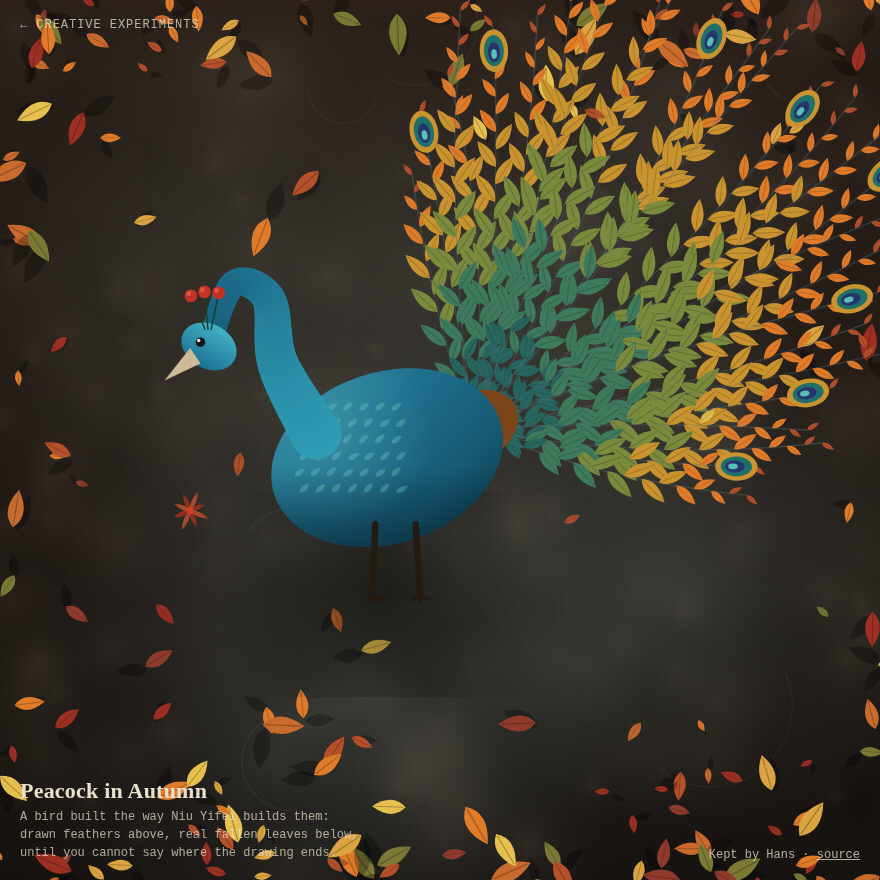
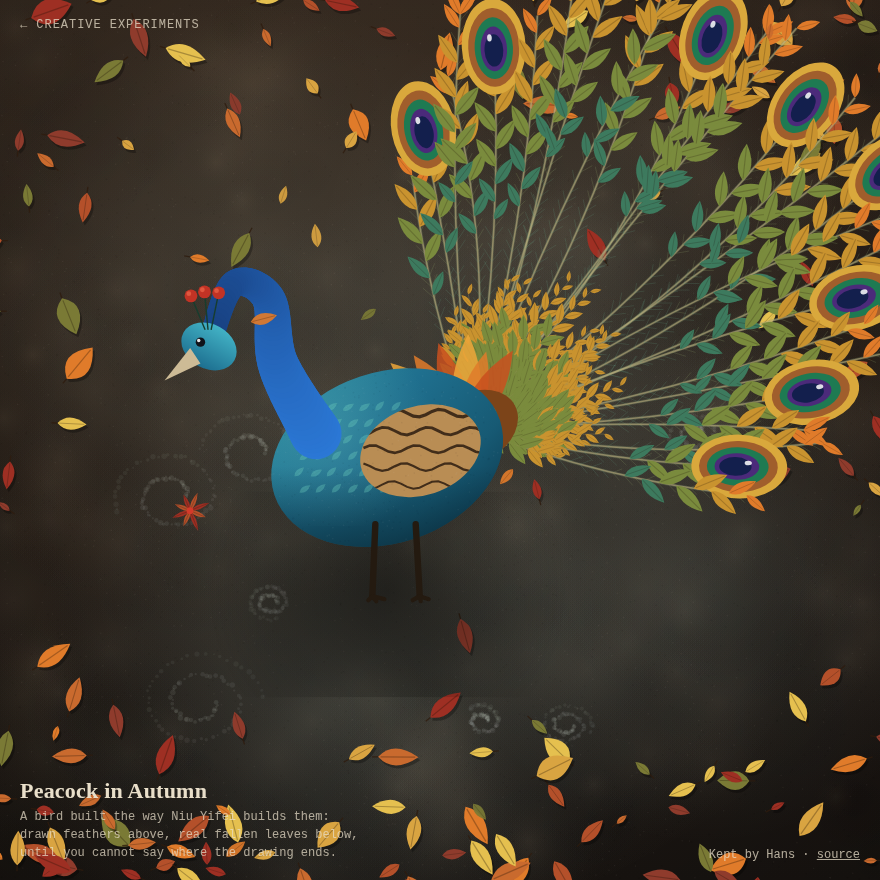
Peacock in Autumn v2: real train anatomy - bare barbed shafts, blade and layered ocelli at the tips, fishtail back rows, gold-green covert skirt

diff --git a/peacock/index.html b/peacock/index.html
@@ -53,7 +53,7 @@
   var canvas = document.getElementById('c');
   var ctx = canvas.getContext('2d');
   var W = 0, H = 0, S = 0;
-  var groundCv = null, bodyCv = null, frontCv = null;
+  var groundCv = null, trainCv = null, bodyCv = null, frontCv = null;
   var strands = [];
   var drifters = [];
   var gusts = [];
@@ -160,14 +160,20 @@
       g.fillStyle = sm;
       g.fillRect(wx - wr, wy - wr, wr * 2, wr * 2);
     }
-    // smoke curls: a few open arcs, chalk-like
-    g.strokeStyle = 'rgba(220,232,226,0.045)';
-    for (i = 0; i < 6; i++) {
-      g.lineWidth = 1 + rg() * 1.6;
-      g.beginPath();
-      var ax = rg() * W, ay = rg() * H, ar = 24 + rg() * 90, a0 = rg() * 6.28;
-      g.arc(ax, ay, ar, a0, a0 + 1.2 + rg() * 1.6);
-      g.stroke();
+    // smoke curls: chalk spirals drawn as jittered dashes, the way a
+    // pastel stick actually lays down a curl
+    for (i = 0; i < 7; i++) {
+      var sx = (0.12 + rg() * 0.76) * W, sy = (0.18 + rg() * 0.7) * H;
+      var sr = 16 + rg() * 54, turns = 1.2 + rg() * 0.9, dir = rg() > 0.5 ? 1 : -1;
+      var steps = 90;
+      for (var q = 0; q < steps; q++) {
+        var qt = q / steps, qa = dir * qt * turns * 6.283, qr = sr * (0.25 + 0.75 * qt);
+        var qx = sx + Math.cos(qa) * qr + (rg() - 0.5) * 3, qy = sy + Math.sin(qa) * qr * 0.82 + (rg() - 0.5) * 3;
+        g.fillStyle = 'rgba(220,232,226,' + (0.05 + 0.05 * (1 - qt)) + ')';
+        g.beginPath();
+        g.arc(qx, qy, 1 + rg() * 1.8, 0, 6.283);
+        g.fill();
+      }
     }
 
     // chalk dust
@@ -175,6 +181,18 @@
       g.fillStyle = rg() > 0.6 ? 'rgba(233,223,202,0.06)' : 'rgba(0,0,0,0.10)';
       g.fillRect(rg() * W, rg() * H, 1.3, 1.3);
     }
+
+    // warm key light from upper left, and a vignette to close the corners
+    var key = g.createRadialGradient(W * 0.30, H * 0.16, 0, W * 0.30, H * 0.16, S * 0.95);
+    key.addColorStop(0, 'rgba(255,214,150,0.07)');
+    key.addColorStop(1, 'rgba(255,214,150,0)');
+    g.fillStyle = key;
+    g.fillRect(0, 0, W, H);
+    var vg = g.createRadialGradient(W / 2, H / 2, S * 0.42, W / 2, H / 2, S * 1.05);
+    vg.addColorStop(0, 'rgba(0,0,0,0)');
+    vg.addColorStop(1, 'rgba(0,0,0,0.30)');
+    g.fillStyle = vg;
+    g.fillRect(0, 0, W, H);
 
     // the little star flower the bird is looking at
     var L0 = layout();
@@ -195,14 +213,23 @@
       else if (edge < 0.86) { lx = W - Math.pow(rg(), 1.8) * W * 0.10; ly = rg() * H; }
       else { lx = rg() * W; ly = rg() * H; }
       var ls = 13 + rg() * 30;
+      var lw = ls * (rg() > 0.72 ? 0.58 : 0.42);   // some leaves round, most pointed
+      var lrot = rg() * 6.28;
       g.save();
       g.translate(lx + 2, ly + 3);
-      g.rotate(rg() * 6.28);
+      g.rotate(lrot);
       g.globalAlpha = 0.28;
-      leaf(g, ls, ls * 0.42, '#000000', 0);
+      leaf(g, ls, lw, '#000000', 0);
       g.restore();
       g.globalAlpha = 1;
-      drawLeafAt(g, lx, ly, ls, ls * 0.42, rg() * 6.28, AUTUMN[(rg() * AUTUMN.length) | 0], 0.30);
+      // a short stem trailing from the base
+      g.strokeStyle = 'rgba(46,28,14,0.8)';
+      g.lineWidth = 1.3;
+      g.beginPath();
+      g.moveTo(lx, ly);
+      g.lineTo(lx - Math.sin(lrot) * 6, ly + Math.cos(lrot) * 6);
+      g.stroke();
+      drawLeafAt(g, lx, ly, ls, lw, lrot, AUTUMN[(rg() * AUTUMN.length) | 0], 0.30);
     }
   }
 
@@ -223,6 +250,21 @@
     sh.addColorStop(1, 'rgba(0,0,0,0)');
     g.fillStyle = sh;
     g.fillRect(bx - rx * 1.5, by + ry * 0.4, rx * 3, ry * 2.4);
+
+    // flame tongues at the tail base, as in the reference: the fan
+    // seems to catch fire where it leaves the body
+    var flameCols = ['#eda63a', '#e07b2a', '#c9501f'];
+    for (var fi = 0; fi < 6; fi++) {
+      var fa = -0.9 + fi * 0.30 + (rg() - 0.5) * 0.12;
+      var fl = rx * (0.55 + rg() * 0.4);
+      g.save();
+      g.translate(bx + rx * 0.66, by - ry * 0.34);
+      g.rotate(fa);
+      g.globalAlpha = 0.85;
+      leaf(g, fl, fl * 0.30, flameCols[fi % 3], 0);
+      g.restore();
+    }
+    g.globalAlpha = 1;
 
     // tail base mound (body colour flowing into the fan)
     g.fillStyle = '#7c4419';
@@ -280,6 +322,39 @@
     }
     g.globalAlpha = 1;
 
+    // the folded wing: buff coverts barred with dark umber waves,
+    // the marking that makes a blue peafowl read as itself
+    g.save();
+    g.beginPath();
+    g.ellipse(bx + rx * 0.28, by - ry * 0.08, rx * 0.52, ry * 0.52, -0.32, 0, 6.283);
+    g.clip();
+    g.fillStyle = '#b98d54';
+    g.fillRect(bx - rx * 0.3, by - ry * 0.7, rx * 1.2, ry * 1.3);
+    g.strokeStyle = 'rgba(43,28,16,0.85)';
+    for (var wi = 0; wi < 6; wi++) {
+      g.lineWidth = 3.2 - wi * 0.3;
+      g.beginPath();
+      var wy = by - ry * 0.52 + wi * ry * 0.21;
+      for (var wx2 = 0; wx2 <= 20; wx2++) {
+        var wpx = bx - rx * 0.2 + (wx2 / 20) * rx * 1.05;
+        var wpy = wy + Math.sin(wx2 * 0.9 + wi * 1.7) * ry * 0.045;
+        if (wx2 === 0) g.moveTo(wpx, wpy); else g.lineTo(wpx, wpy);
+      }
+      g.stroke();
+    }
+    g.restore();
+    // chalk powder over the body, so the bird is pastel, not plastic:
+    // speckles clipped to the body ellipse
+    g.save();
+    g.beginPath();
+    g.ellipse(bx, by, rx, ry, -0.32, 0, 6.283);
+    g.clip();
+    for (var sp = 0; sp < 420; sp++) {
+      g.fillStyle = rg() > 0.5 ? 'rgba(230,242,238,0.05)' : 'rgba(6,20,28,0.06)';
+      g.fillRect(bx + (rg() - 0.5) * rx * 2, by + (rg() - 0.5) * ry * 2, 1.4, 1.4);
+    }
+    g.restore();
+
     // neck: rises from the breast, arches, and bows down to the head,
     // which hangs low over the little star flower
     var neck = [
@@ -308,7 +383,7 @@
       var gt = pi / (path.length - 1);
       var wseg = Math.min(widths.length - 1.001, gt * (widths.length - 1));
       var wdt = lerp(widths[Math.floor(wseg)], widths[Math.floor(wseg) + 1], wseg % 1);
-      g.strokeStyle = lerpColor('#2f9db4', '#175d7c', gt);
+      g.strokeStyle = lerpColor('#2b78d6', '#173f7e', gt);
       g.lineWidth = wdt;
       g.lineCap = 'round';
       g.beginPath();
@@ -430,52 +505,142 @@
     };
   }
 
+  // ---------- the train, baked once: bare shafts, fine barbs, and the
+  // fluffy gold-green coverts at the base. A real train feather is a
+  // long near-naked rachis; the blade and the eye live at the tip.
+  function buildTrain() {
+    trainCv = document.createElement('canvas');
+    trainCv.width = Math.floor(W * DPR); trainCv.height = Math.floor(H * DPR);
+    var g = trainCv.getContext('2d');
+    g.setTransform(DPR, 0, 0, DPR, 0, 0);
+    var rg = mulberry(seed + 41);
+    var bs = Math.max(0.7, S / 620);
+
+    for (var s = 0; s < strands.length; s++) {
+      var st = strands[s];
+      // the rachis: a pale straw-teal line, slightly tapered feel via
+      // two passes (soft under-stroke, brighter core)
+      g.strokeStyle = 'rgba(120,138,104,0.30)';
+      g.lineWidth = 2.1 * bs;
+      g.beginPath();
+      g.moveTo(st.ox, st.oy);
+      g.quadraticCurveTo(st.cx, st.cy, st.ex, st.ey);
+      g.stroke();
+      g.strokeStyle = 'rgba(198,182,132,0.55)';
+      g.lineWidth = 1.1 * bs;
+      g.beginPath();
+      g.moveTo(st.ox, st.oy);
+      g.quadraticCurveTo(st.cx, st.cy, st.ex, st.ey);
+      g.stroke();
+      // fine barbs angled toward the tip, sparse, alternating sides
+      var steps = Math.max(6, Math.floor(st.L / 11));
+      for (var j = 1; j < steps; j++) {
+        var u = j / steps;
+        var p = qPoint(st, u);
+        var tang = Math.atan2(p.ty, p.tx);
+        var blen = (7 + rg() * 5.5) * bs * (1 - u * 0.25);
+        for (var sd = -1; sd <= 1; sd += 2) {
+          if (rg() < 0.18) continue;   // barbs are sparse, with gaps
+          var ba = tang + sd * (Math.PI / 2 - 0.95);
+          g.strokeStyle = u < 0.5 ? 'rgba(96,150,128,0.26)' : 'rgba(140,160,105,0.28)';
+          g.lineWidth = 0.8;
+          g.beginPath();
+          g.moveTo(p.x, p.y);
+          g.lineTo(p.x + Math.cos(ba) * blen, p.y + Math.sin(ba) * blen);
+          g.stroke();
+        }
+      }
+    }
+
+    // short covert feathers fanning from the same base: the dense,
+    // fluffy gold-green skirt the long feathers rise out of
+    var L0 = layout();
+    var cox = L0.bx + L0.rx * 0.72, coy = L0.by - L0.ry * 0.34;
+    var reach = 0.60 * Math.max(W, H);
+    var NC = 42;
+    for (var c = 0; c < NC; c++) {
+      var ct = c / (NC - 1);
+      var cang = lerp(-1.86, 0.30, ct) + (rg() - 0.5) * 0.09;
+      var cL = reach * (0.16 + rg() * 0.14) * (0.75 + 0.45 * Math.sin(Math.PI * ct));
+      var cdx = Math.cos(cang), cdy = Math.sin(cang);
+      var cbow = (rg() - 0.4) * 0.2;
+      var cst = {
+        ox: cox, oy: coy,
+        cx: cox + cdx * cL * 0.5 - cdy * cL * cbow,
+        cy: coy + cdy * cL * 0.5 + cdx * cL * cbow,
+        ex: cox + cdx * cL, ey: coy + cdy * cL, L: cL
+      };
+      g.strokeStyle = 'rgba(150,140,95,0.4)';
+      g.lineWidth = 0.9;
+      g.beginPath();
+      g.moveTo(cst.ox, cst.oy);
+      g.quadraticCurveTo(cst.cx, cst.cy, cst.ex, cst.ey);
+      g.stroke();
+      var cn = Math.max(5, Math.floor(cL / 9));
+      for (var cj = 1; cj <= cn; cj++) {
+        var cu = cj / cn;
+        var cp = qPoint(cst, cu);
+        var ctang = Math.atan2(cp.ty, cp.tx);
+        var cside = (cj % 2 === 0) ? 1 : -1;
+        var clen = (8 + 11 * Math.sin(Math.PI * Math.min(1, cu * 1.05))) * bs;
+        drawLeafAt(g, cp.x, cp.y, clen, clen * 0.38,
+          ctang + Math.PI / 2 + cside * 0.58,
+          rampAt(0.28 + cu * 0.34 + (rg() - 0.5) * 0.05), 0.2);
+      }
+    }
+  }
+
   function drawTail(now) {
     var t = now / 1000;
     for (var s = 0; s < strands.length; s++) {
       var st = strands[s];
-      // filaments
-      ctx.strokeStyle = 'rgba(84,110,120,0.4)';
-      ctx.lineWidth = 1.1;
-      ctx.beginPath();
-      ctx.moveTo(st.ox, st.oy);
-      ctx.quadraticCurveTo(st.cx, st.cy, st.ex, st.ey);
-      ctx.stroke();
-      ctx.strokeStyle = 'rgba(84,110,120,0.16)';
-      ctx.beginPath();
-      ctx.moveTo(st.ox, st.oy);
-      ctx.quadraticCurveTo(st.cx + 5, st.cy + 3, st.ex, st.ey);
-      ctx.stroke();
-      // leaflets
+      // the blade: leaflets only in the outer half of the feather,
+      // running green at its base to gold at the tip
       var n = Math.max(9, Math.floor(st.L / 17));
-      for (var j = 2; j <= n; j++) {
+      var j0 = Math.max(2, Math.ceil(n * 0.52));
+      for (var j = j0; j <= n; j++) {
         var u = j / n;
+        var v = (u - 0.52) / 0.48;
         var p = qPoint(st, u);
         var tang = Math.atan2(p.ty, p.tx);
         var sway = Math.sin(t * 0.6 + st.phase + u * 2.2) * 0.045;
         var side = (j % 2 === 0) ? 1 : -1;
-        var llen = (10 + 15 * Math.sin(Math.PI * Math.min(1, u * 1.06))) * (S / 620);
+        var llen = (10 + 16 * Math.sin(Math.PI * (0.15 + 0.7 * v))) * (S / 620);
         drawLeafAt(ctx, p.x, p.y, llen, llen * 0.36,
           tang + Math.PI / 2 + side * (0.62 + st.off * 0.2) + sway,
-          rampAt(u * 0.92 + st.off * 0.06), 0.22);
+          rampAt(0.22 + v * 0.55 + st.off * 0.06), 0.22);
       }
-      // eye spot near the tip of chosen strands
+      // the ocellus, layered inside-out as it grows in a real feather:
+      // gold rim, bronze, emerald, violet, and a deep navy heart
       if (st.eye) {
-        var ep = qPoint(st, 0.94);
+        var ep = qPoint(st, 0.95);
         var ea = Math.atan2(ep.ty, ep.tx) + Math.PI / 2;
         ctx.save();
         ctx.translate(ep.x, ep.y);
         ctx.rotate(ea);
-        var es = S / 620;
-        ctx.fillStyle = '#c9932f';
-        ctx.beginPath(); ctx.ellipse(0, 0, 10 * es, 15 * es, 0, 0, 6.283); ctx.fill();
-        ctx.fillStyle = '#1f6f6a';
-        ctx.beginPath(); ctx.ellipse(0, 0, 7 * es, 11 * es, 0, 0, 6.283); ctx.fill();
-        ctx.fillStyle = '#27356e';
-        ctx.beginPath(); ctx.ellipse(0, 1 * es, 4.2 * es, 7 * es, 0, 0, 6.283); ctx.fill();
-        ctx.fillStyle = '#57c1b6';
-        ctx.beginPath(); ctx.ellipse(0, 2.4 * es, 2 * es, 3.4 * es, 0, 0, 6.283); ctx.fill();
+        var es = (S / 620) * 1.5;
+        ctx.fillStyle = '#d9a83c';
+        ctx.beginPath(); ctx.ellipse(0, 0, 15 * es, 22.5 * es, 0, 0, 6.283); ctx.fill();
+        ctx.fillStyle = '#a05e2c';
+        ctx.beginPath(); ctx.ellipse(0, 0.4 * es, 12 * es, 18.5 * es, 0, 0, 6.283); ctx.fill();
+        ctx.fillStyle = '#1e7a52';
+        ctx.beginPath(); ctx.ellipse(0, 0.7 * es, 9 * es, 14.5 * es, 0, 0, 6.283); ctx.fill();
+        ctx.fillStyle = '#4b2a7a';
+        ctx.beginPath(); ctx.ellipse(0, 1.1 * es, 6.2 * es, 10.5 * es, 0, 0, 6.283); ctx.fill();
+        ctx.fillStyle = '#131f4d';
+        ctx.beginPath(); ctx.ellipse(0, 1.8 * es, 4.4 * es, 7.6 * es, 0, 0, 6.283); ctx.fill();
+        ctx.fillStyle = 'rgba(255,255,255,0.85)';
+        ctx.beginPath(); ctx.ellipse(-1.8 * es, -4.2 * es, 1.1 * es, 1.7 * es, 0, 0, 6.283); ctx.fill();
         ctx.restore();
+      } else if (s % 4 === 3) {
+        // back-row feathers end in a fishtail: two leaflets split in a V
+        var fp = qPoint(st, 0.99);
+        var fa2 = Math.atan2(fp.ty, fp.tx);
+        var fs = (S / 620);
+        drawLeafAt(ctx, fp.x, fp.y, 21 * fs, 7 * fs,
+          fa2 + Math.PI / 2 - 0.52, rampAt(0.72), 0.2);
+        drawLeafAt(ctx, fp.x, fp.y, 21 * fs, 7 * fs,
+          fa2 + Math.PI / 2 + 0.52, rampAt(0.78), 0.2);
       }
     }
   }
@@ -493,6 +658,7 @@
   function frame(now) {
     var t = now / 1000;
     ctx.drawImage(groundCv, 0, 0, W, H);
+    ctx.drawImage(trainCv, 0, 0, W, H);
     drawTail(now);
     ctx.drawImage(bodyCv, 0, 0, W, H);
     ctx.drawImage(frontCv, 0, 0, W, H);
@@ -560,6 +726,7 @@
     R = mulberry(seed);
     buildGround();
     buildStrands();
+    buildTrain();
     buildBody();
     buildFront();
     drifters = [];
